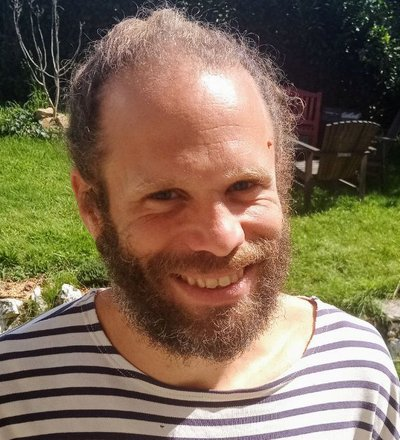
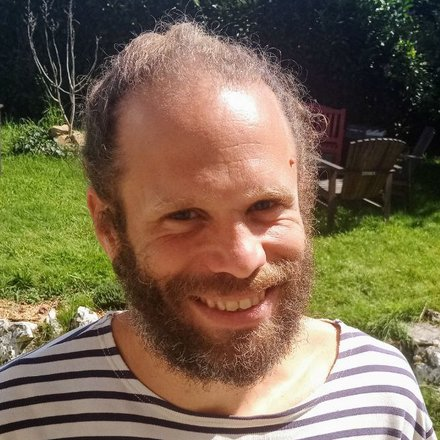
Finitions CV papier et popups
Papier :
- Photo en cercle blanc incrustée dans le bandeau navy
  (re-cadrée carrée, biais haut)
- Icônes de contact agrandies, arrondi bas plus prononcé
- Puces retirées (compétences, langues, descriptions pro)
- Centres d'intérêt : une passion par ligne

Popups :
- Commits déplacés sous « Période » (plus sous le titre)
- Badge « en cours » aligné à droite sur desktop
- Lien footer : chevron › agrandi

Generated with [Devin](https://devin.ai)

diff --git a/index.html b/index.html
@@ -235,6 +235,36 @@
         margin-bottom: 14px;
       }
 
+      .modal-head {
+        display: flex;
+        align-items: center;
+        justify-content: space-between;
+        gap: 10px;
+      }
+
+      .modal-head .active-badge {
+        flex: none;
+        margin: 0 0 8px;
+      }
+
+      .modal-footer a .go-chev {
+        font-size: 1.6em;
+        font-weight: 800;
+        margin-left: 4px;
+        vertical-align: -3px;
+      }
+
+      @media (max-width: 560px) {
+        .modal-head {
+          flex-direction: column;
+          align-items: flex-start;
+          gap: 0;
+        }
+        .modal-head .active-badge {
+          margin: 0 0 8px;
+        }
+      }
+
       .meta-line {
         display: flex;
         align-items: center;
@@ -620,24 +650,30 @@
         left: 0;
         right: 0;
         bottom: 0;
-        height: 13mm;
+        height: 14mm;
         background: #0f3669;
       }
 
       #printSheet .cv-band-bot svg {
         position: absolute;
-        top: -6mm;
+        top: -8mm;
         left: 0;
         width: 100%;
-        height: 6mm;
+        height: 8mm;
         display: block;
       }
 
       #printSheet .cv-photo {
         display: block;
-        width: 26mm;
-        margin: 24mm auto 4mm;
-        border-radius: 1.5mm;
+        width: 30mm;
+        height: 30mm;
+        object-fit: cover;
+        margin: 19mm auto 5mm;
+        border-radius: 50%;
+        border: 1.6mm solid #fff;
+        box-shadow: 0 1px 3px rgba(0, 0, 0, 0.25);
+        position: relative;
+        z-index: 2;
       }
 
       #printSheet h2 {
@@ -665,7 +701,10 @@
 
       #printSheet .cv-citem i {
         color: #0f3669;
-        font-size: 9pt;
+        font-size: 11.5pt;
+        width: 5mm;
+        text-align: center;
+        flex: none;
       }
 
       #printSheet .cv-citem a {
@@ -713,19 +752,6 @@
 
       #printSheet .cv-dot.off {
         background: #c2c4c6;
-      }
-
-      #printSheet .cv-skill::before,
-      #printSheet .cv-lang::before {
-        content: "\25AA";
-        color: #0f3669;
-        margin-right: 1.6mm;
-      }
-
-      #printSheet .cv-int {
-        font-size: 8.6pt;
-        color: #333;
-        margin: 0;
       }
 
       /* ---------- colonne principale ---------- */
@@ -777,13 +803,6 @@
         font-size: 8.4pt;
         color: #444;
         margin: 0.6mm 0 0;
-      }
-
-      #printSheet .cv-exp p::before {
-        content: "\2022";
-        color: #0f3669;
-        font-weight: 700;
-        margin-right: 1mm;
       }
 
       #printSheet .cv-proj {
@@ -1818,10 +1837,10 @@
               ${langs}
 
               <h2>Centres d'intérêt</h2>
-              <p class="cv-int">${esc(PROFILE.passions)}</p>
+              ${PROFILE.passions.split("·").map((p) => `<div class="cv-int">${esc(p.trim())}</div>`).join("")}
 
               <div class="cv-band-bot">
-                <svg viewBox="0 0 200 12" preserveAspectRatio="none" aria-hidden="true"><path d="M0,12 L200,12 L200,2 C150,11 50,11 0,2 Z" fill="#0f3669"/></svg>
+                <svg viewBox="0 0 200 16" preserveAspectRatio="none" aria-hidden="true"><path d="M0,16 L200,16 L200,2 C150,15 50,15 0,2 Z" fill="#0f3669"/></svg>
               </div>
             </div>
 
@@ -1919,9 +1938,10 @@
           })
           .join(" ");
         document.getElementById("popupContent").innerHTML = `
-          <div class="modal-label">${n.name}</div>
-          ${n.active ? '<div class="active-badge"><span class="pulse-dot"></span>en cours</div>' : ""}
-          ${n.commits ? `<div class="modal-sub">${n.commits} commits</div>` : ""}
+          <div class="modal-head">
+            <div class="modal-label">${n.name}</div>
+            ${n.active ? '<div class="active-badge"><span class="pulse-dot"></span>en cours</div>' : ""}
+          </div>
           <div class="meta-line">
             <span class="lbl">Secteur</span>
             <button class="sector-chip" onclick="toggleFilter('domain','${n.domain}');closeModal()">
@@ -1930,9 +1950,10 @@
           </div>
           ${techChips ? `<div class="meta-line"><span class="lbl">Technos</span><span style="display:flex;flex-wrap:wrap;gap:6px;">${techChips}</span></div>` : ""}
           <div class="meta-line"><span class="lbl">Période</span><span>${period}<span class="dur-pre"> — </span><span class="dur">${durStr(n.start, n.end)}</span></span></div>
+          ${n.commits ? `<div class="meta-line"><span class="lbl">Commits</span><span>${n.commits.toLocaleString("fr-FR")}</span></div>` : ""}
           <div class="modal-comment">${n.desc}</div>
           <div class="modal-footer">
-            ${n.url ? `<a href="${n.url}" target="_blank">${/github|gitlab|duniter/.test(n.url) ? "Voir le projet" : "Visiter le site"} →</a>` : ""}
+            ${n.url ? `<a href="${n.url}" target="_blank">${/github|gitlab|duniter/.test(n.url) ? "Voir le projet" : "Visiter le site"} <span class="go-chev">›</span></a>` : ""}
           </div>
         `;
         modal.style.display = "flex";
